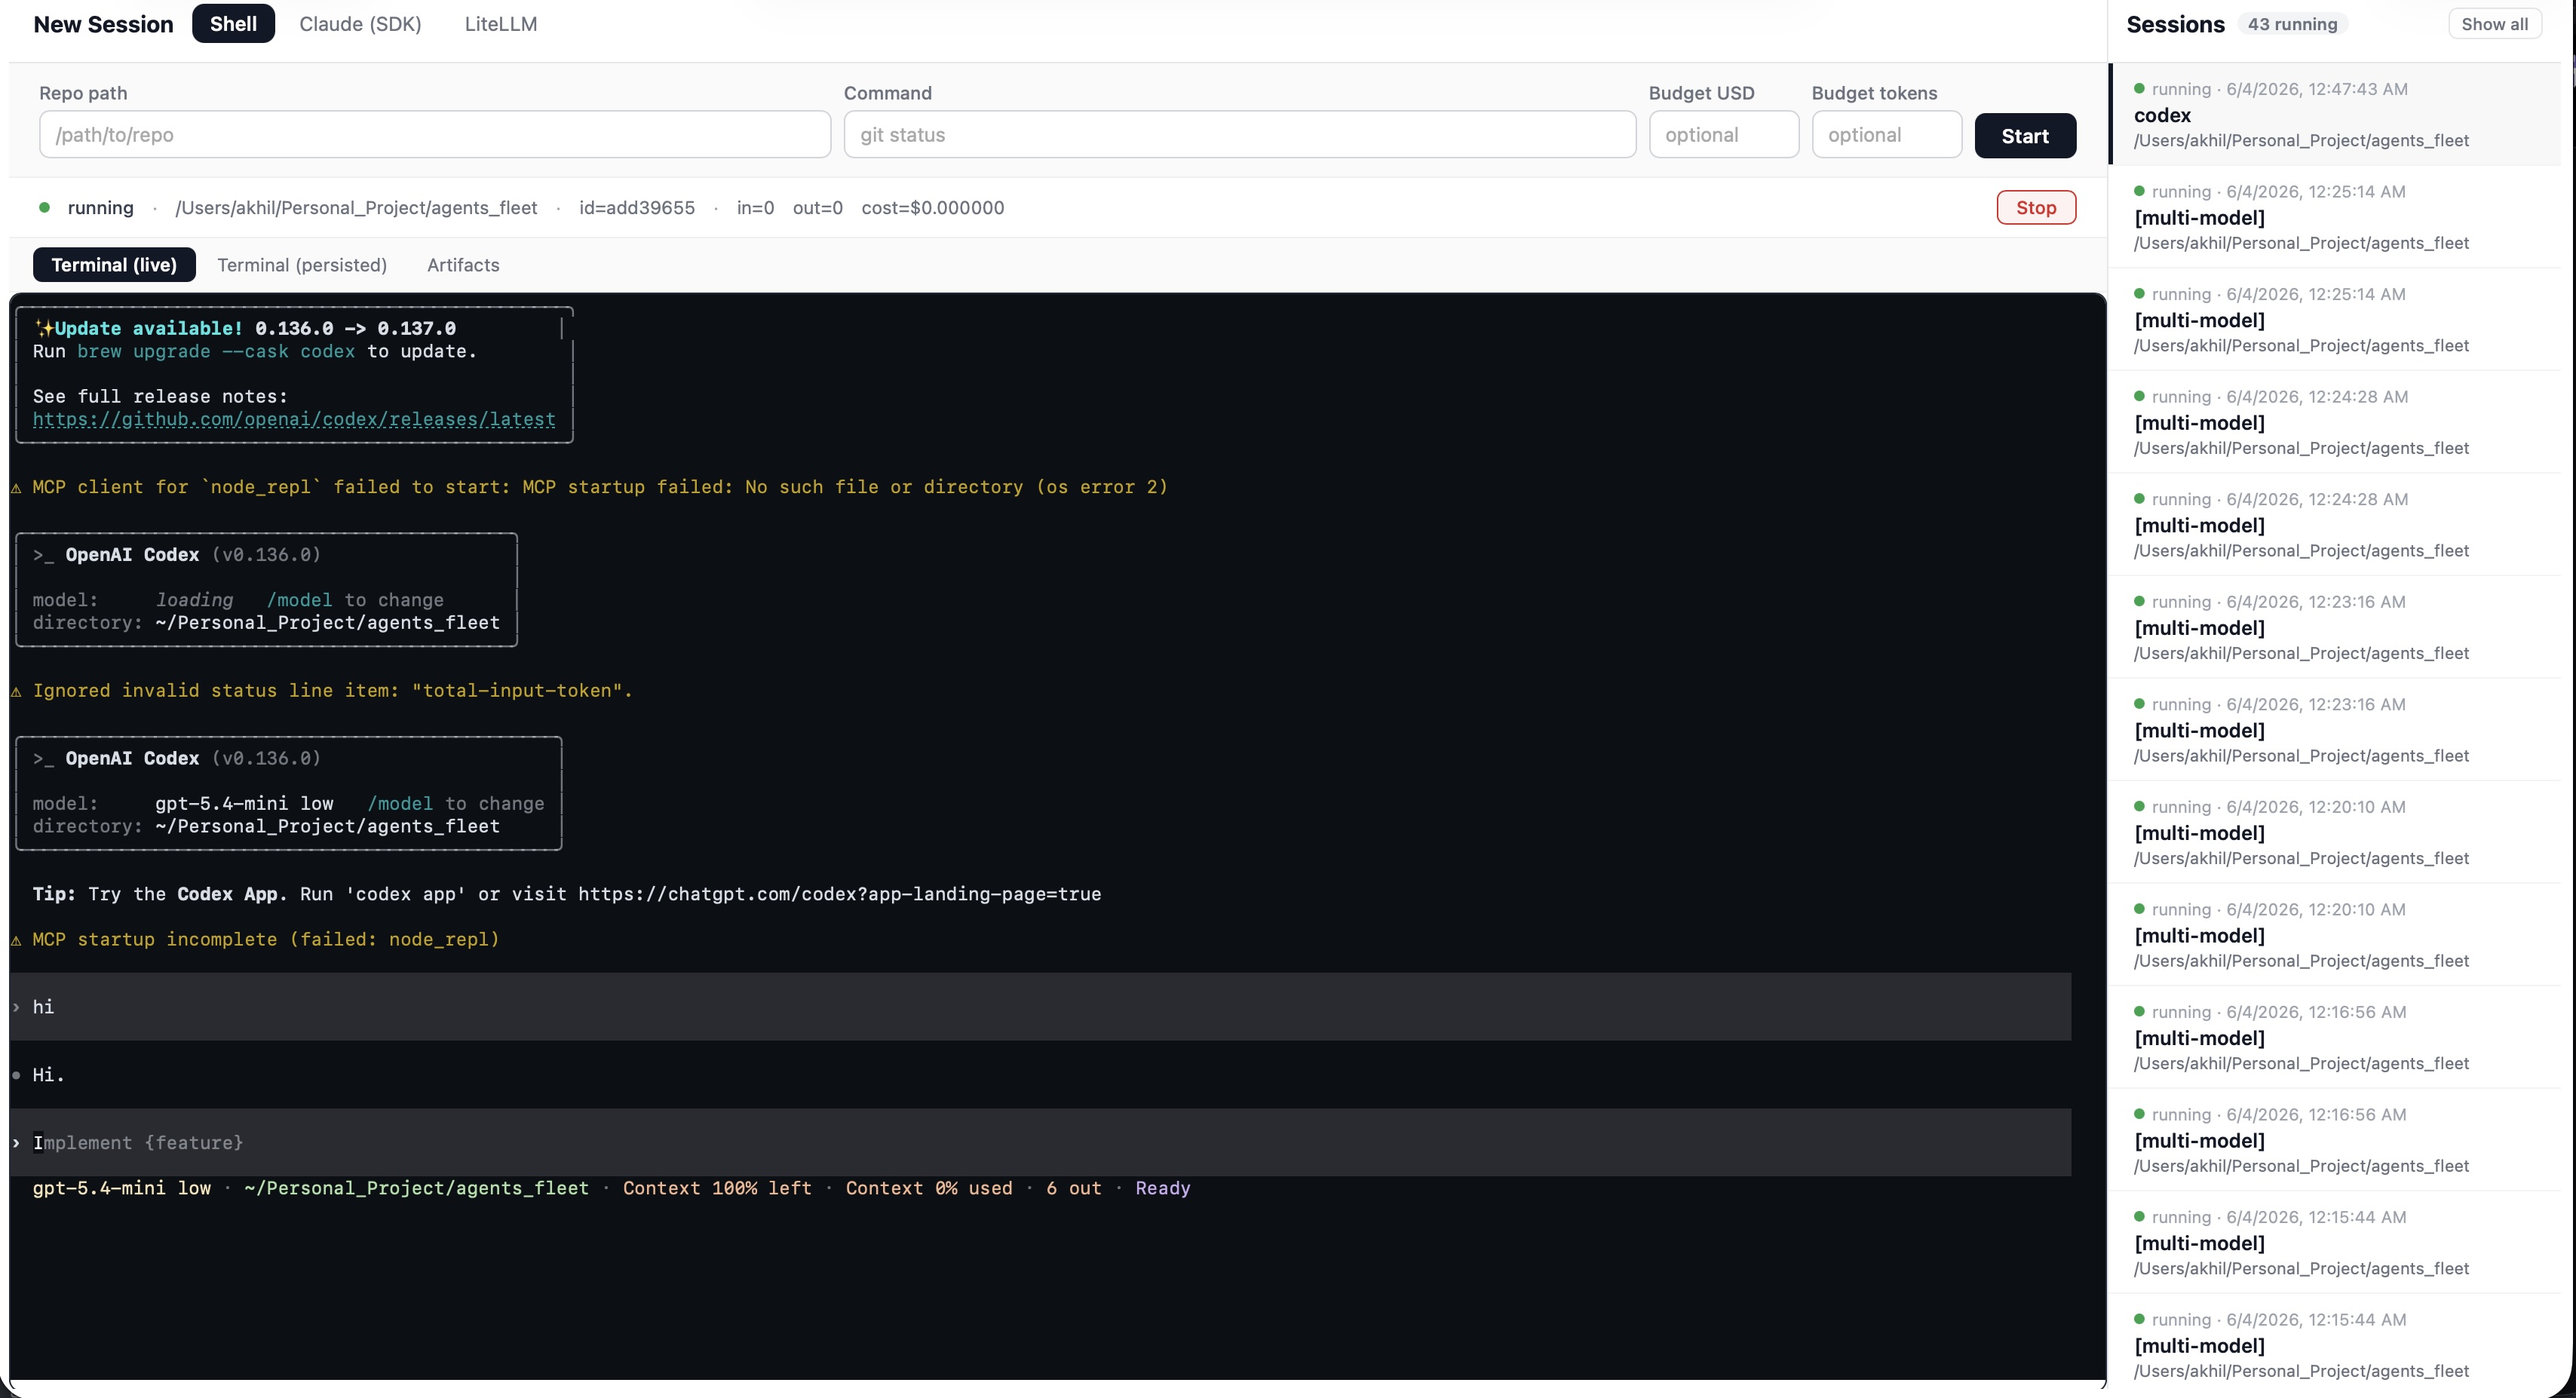
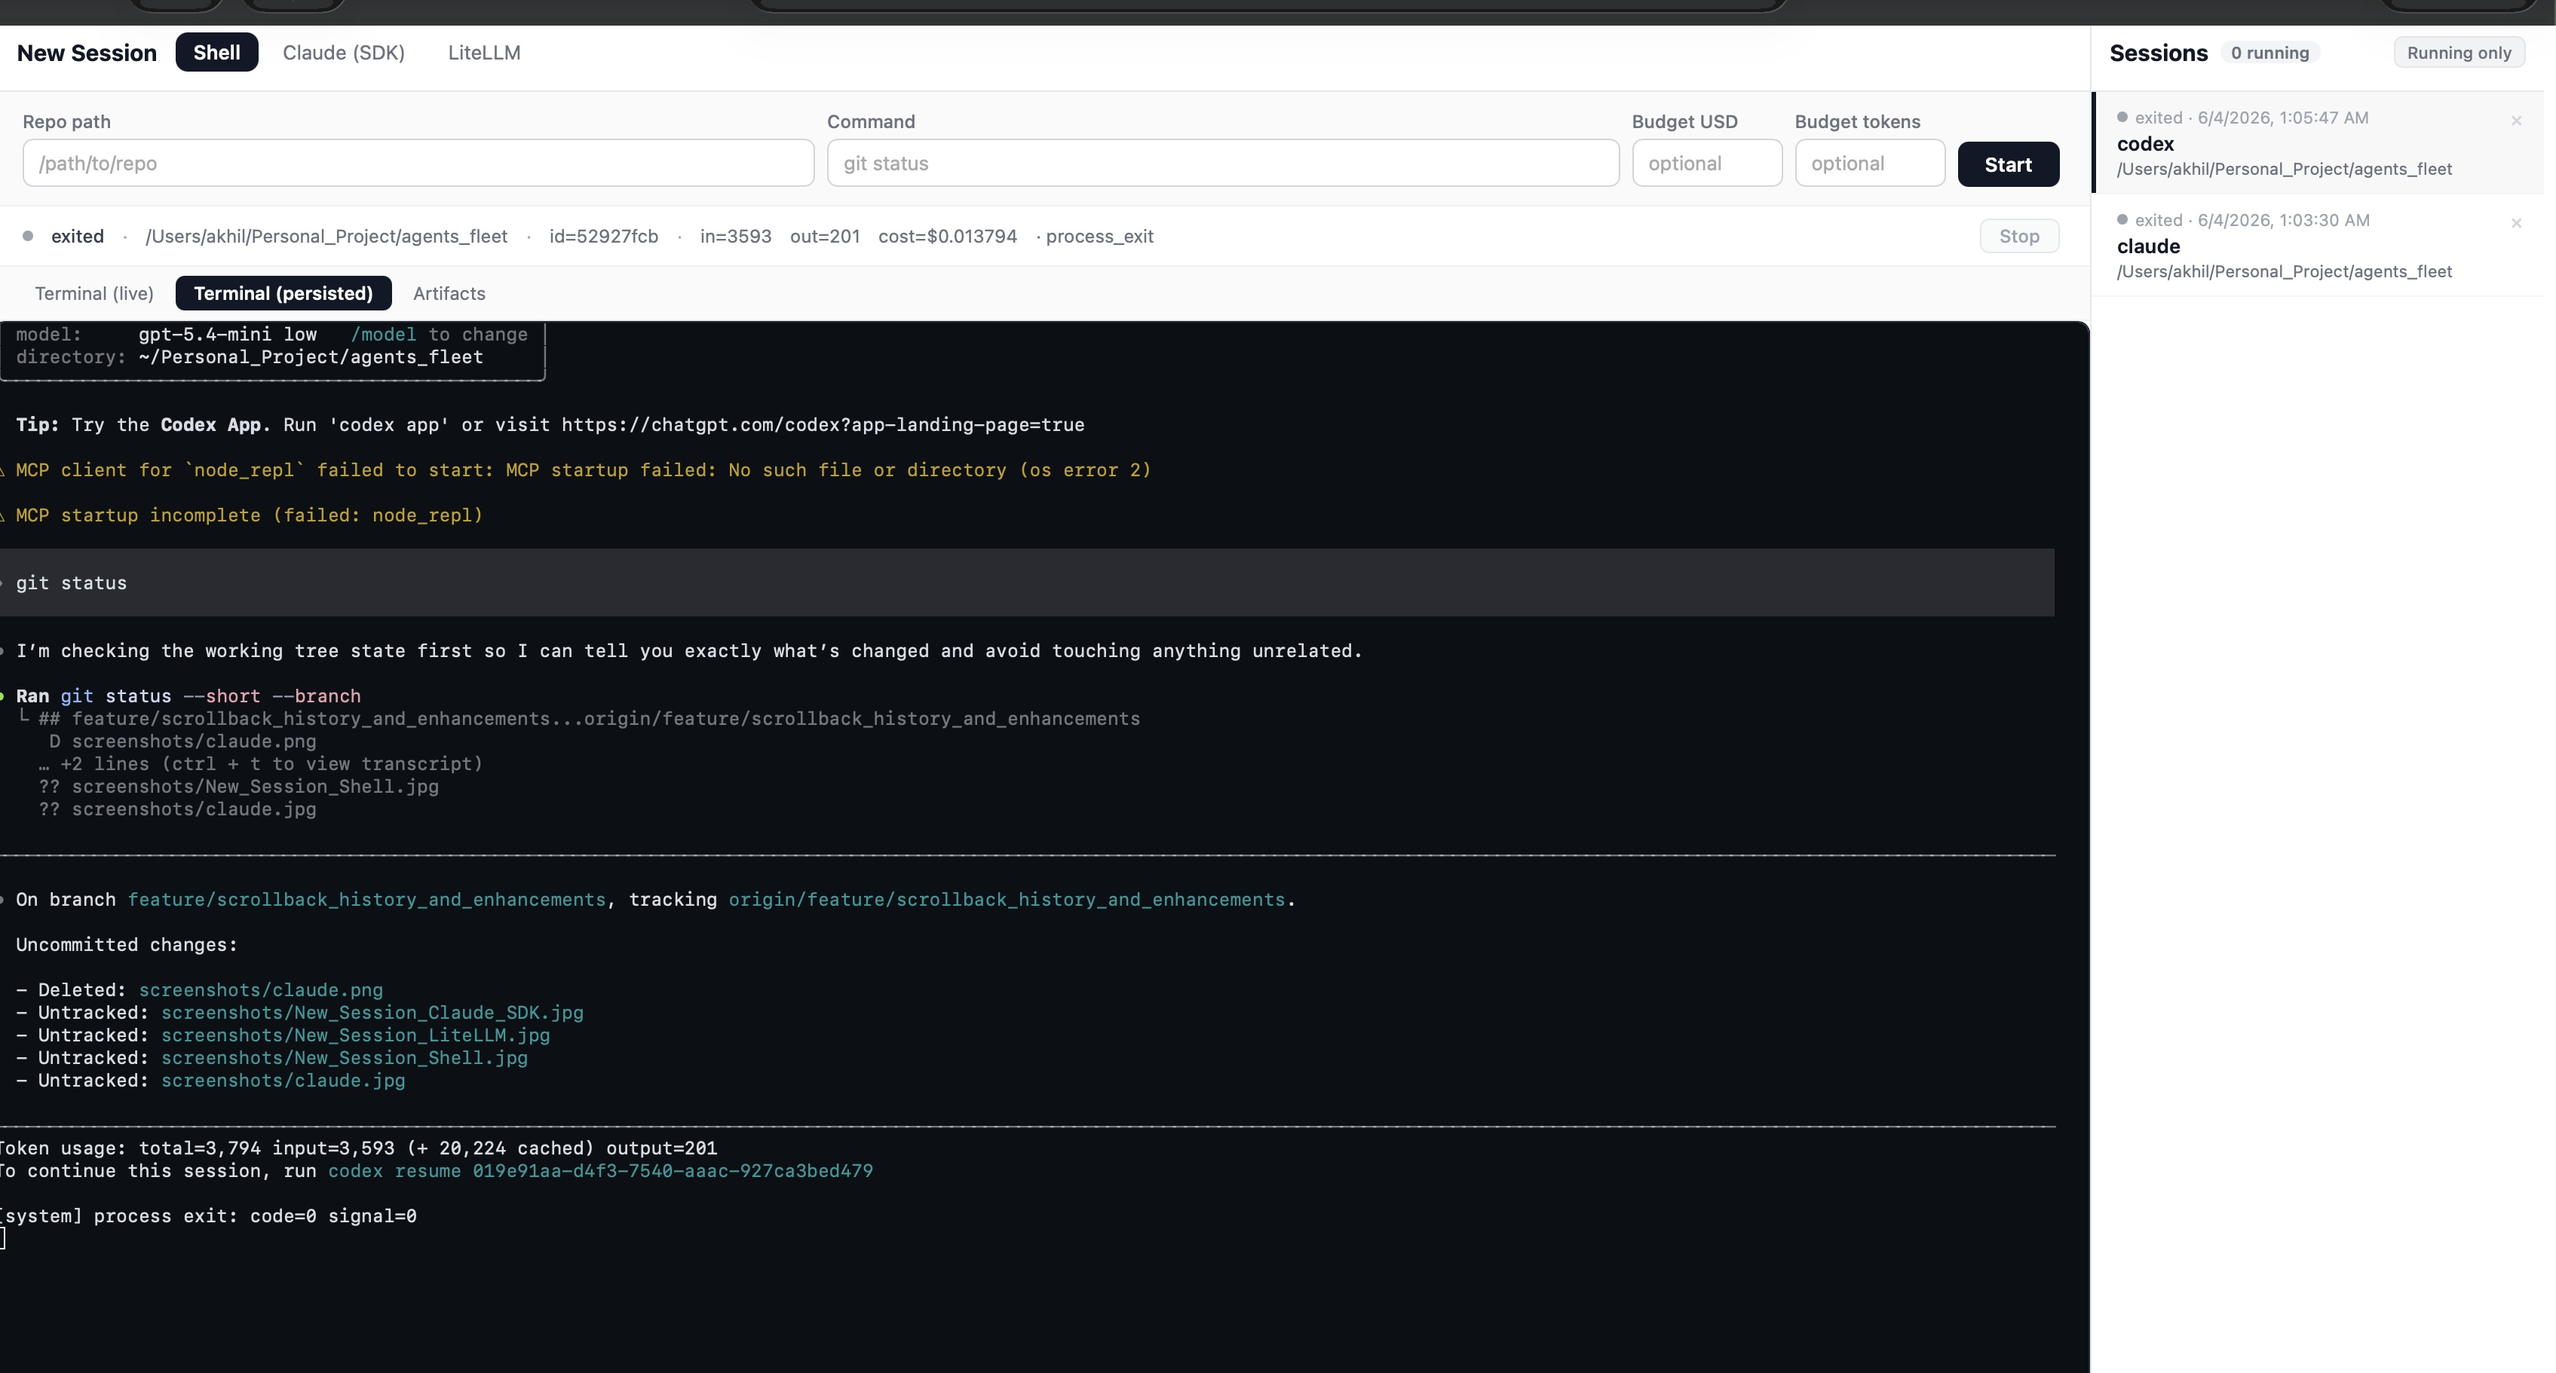
Refresh README screenshots and assets

Changed region(s): [[0.0, 0.0, 1.0, 1.0], [0.8363, 0.7991, 0.9602, 0.9835], [0.8363, 0.4303, 0.9602, 0.6147]]

diff --git a/README.md b/README.md
@@ -21,57 +21,83 @@ This repository contains a **working MVP**:
 
 ### Screenshots
 
-**New session form**
+**Mission control overview**
 
-![New session form](screenshots/New_Session.png)
+![Mission control overview](screenshots/AI_Agent_Mission_Control_System.png)
 
-**Live terminal (interactive agents)**
+**Local-first architecture**
 
-- Claude Code (interactive TUI rendered via xterm.js)
+![Local-first architecture](screenshots/Local_Control_for_AI_Agents.png)
 
-![Claude interactive session](screenshots/claude.png)
+**Create a new session**
 
-- OpenAI Codex (interactive)
+- Shell session
 
-![Codex interactive session](screenshots/codex.png)
+![New shell session](screenshots/New_Session_Shell.jpg)
+
+- Claude (SDK) session
+
+![New Claude SDK session](screenshots/New_Session_Claude_SDK.jpg)
+
+- LiteLLM session
+
+![New LiteLLM session](screenshots/New_Session_LiteLLM.jpg)
+
+**Interactive sessions**
+
+- Claude Code / PTY session
+
+![Claude interactive session](screenshots/claude.jpg)
+
+- OpenAI Codex / PTY session
+
+![Codex interactive session](screenshots/codex.jpg)
+
+- Codex scrollback / persisted terminal replay
+
+![Codex scrollable terminal](screenshots/codex_scrollable_terminal.jpg)
+
+**Claude SDK chat flow**
+
+- Chat conversation view
+
+![Claude SDK chat](screenshots/claude_sdk_Chat.jpg)
+
+- Command approval gate
+
+![Claude SDK approval gate](screenshots/claude_sdk_approval_gate.jpg)
+
+- Approval accepted
+
+![Claude SDK approval accepted](screenshots/claude_sdk_approval_gate_approved.jpg)
+
+- Approval rejected
+
+![Claude SDK approval rejected](screenshots/claude_sdk_approval_gate_rejected.jpg)
+
+- Persisted chat history
+
+![Claude SDK history](screenshots/claude_sdk_History.jpg)
 
 **Per-session artifacts (git diff snapshots)**
 
-- Artifacts tab (changed files + diff)
+- Git diff snapshot
 
-![Artifacts view](screenshots/artifacts_git_snapshot_small.jpg)
+![Git diff snapshot](screenshots/new_git_diff.jpg)
 
-- Artifacts view (larger change set)
+**SQLite persistence / debug views**
 
-![Artifacts view (large change)](screenshots/artifacts_git_snapshot_large.jpg)
-
-**Live output vs persisted terminal history**
-
-- Terminal (live)
-
-![git status live](screenshots/git_status_live.png)
-
-- Terminal (persisted)
-
-![git status persisted logs](screenshots/git_status_logs.png)
-
-**Budget enforcement (auto-stop)**
-
-- Token budget cutoff
-
-![Token budget cutoff](screenshots/cutoff_based_on_tokens.png)
-
-- USD budget cutoff
-
-![USD budget cutoff](screenshots/cutoff_based_on_cost.png)
-
-**Cost estimate vs actual (CLI-reported)**
-
-![Claude actual cost vs estimate](screenshots/claude_Actual_cost_vs_estimate.png)
-
-**SQLite persistence (debug views)**
+- Sessions table
 
 
+
+- Logs table
+
+
+
+### Videos
+
+- `screenshots/AgentFleet__Mission_Control_for_Your_Local_AI_Workers.mp4`
 
 The MVP persists several tables in `data/agents_fleet.sqlite`:
 
@@ -220,15 +246,15 @@ Notes:
 Screenshots:
 - Claude SDK session stopped by budget
 
-![Claude SDK budget stop](screenshots/claude_chat_budget.jpg)
+![Claude SDK budget stop](screenshots/claude_sdk_Chat.jpg)
 
 - Claude SDK tool call + output
 
-![Claude SDK tool call](screenshots/claude_chat_tool_call.jpg)
+![Claude SDK tool call](screenshots/claude_sdk_approval_gate.jpg)
 
 - Claude SDK tool permission gate (Approve/Reject)
 
-![Claude SDK tool permission](screenshots/claude_chat_tool_permission.jpg)
+![Claude SDK tool permission](screenshots/claude_sdk_approval_gate_rejected.jpg)
 
 ### LiteLLM Chat (proxy support)
 **Use your enterprise URL and API key to access multiple models through a LiteLLM proxy.**
